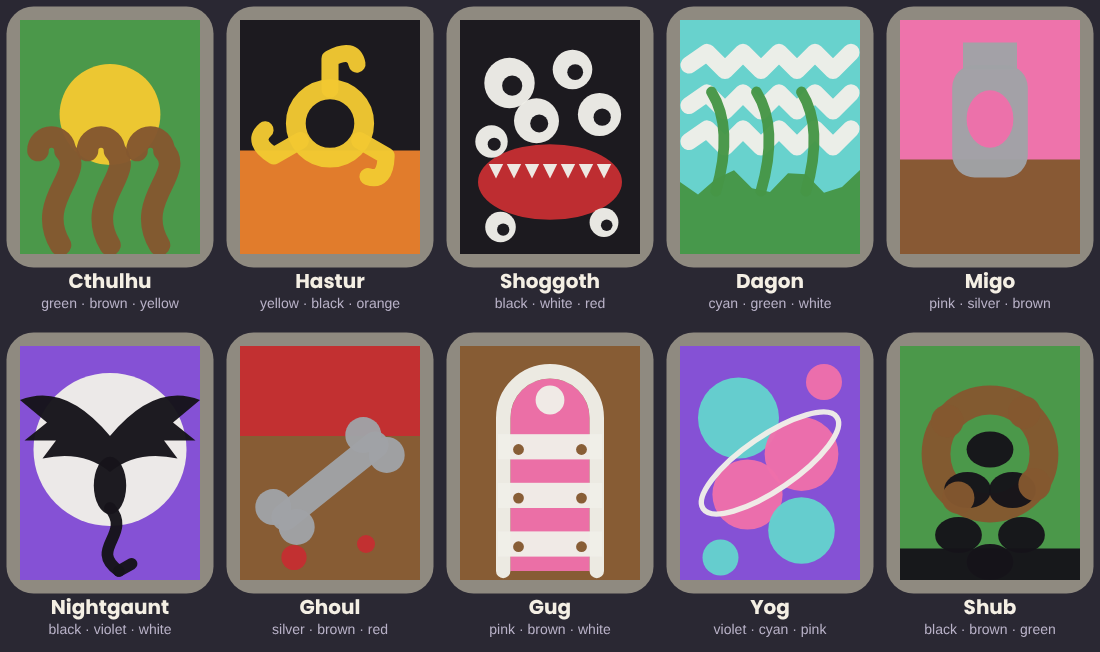
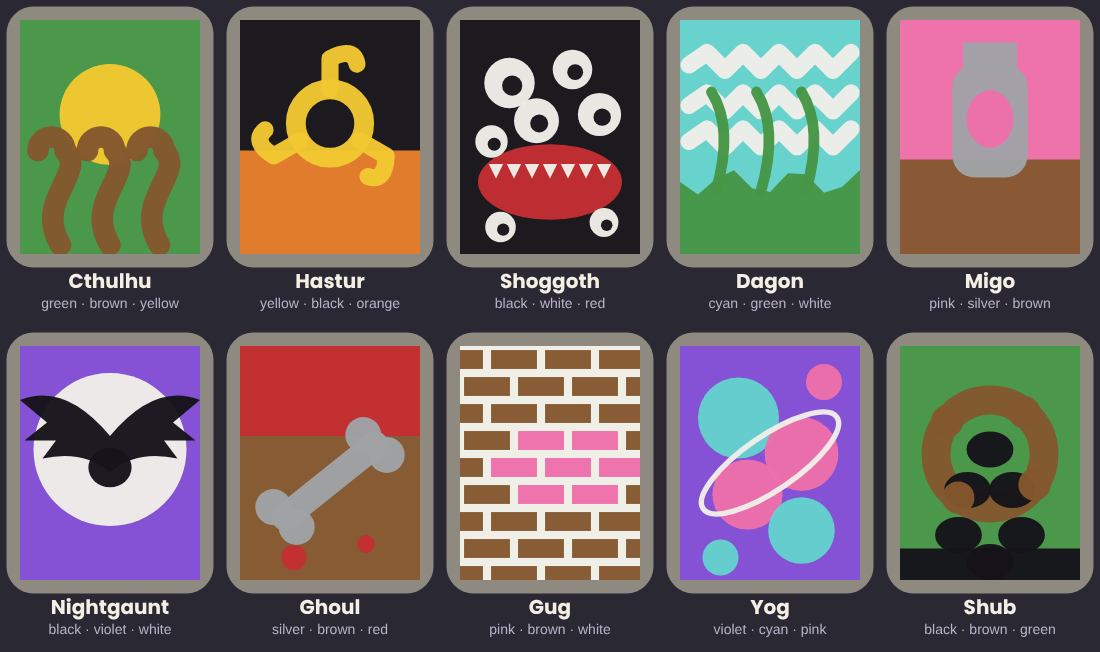
Gug's stone is a brick wall with a band of pink bricks, and the Nightgaunt's stone loses the tail under its body
Claude-Session: https://claude.ai/code/session_01MQWzxVrGaM5SWzbnobBWB8

Changed region(s): [[0.4018, 0.5215, 0.5873, 0.8896], [0.0618, 0.7055, 0.1236, 0.8896]]

diff --git a/prototype/scenes.js b/prototype/scenes.js
@@ -745,12 +745,13 @@ function horrorGlyph(c, sp) {
   else if (sp === 'Nightgaunt') { bg('violet'); f('white'); disc(0, -1.5, 8.5);   // a black winged shape across a white moon
     f('black'); c.beginPath(); c.moveTo(0, -3); c.quadraticCurveTo(-5, -9, -10, -7); c.lineTo(-7, -4.5); c.lineTo(-9.5, -2.5); c.lineTo(-6, -2.5); c.lineTo(-7.5, -0.5); c.quadraticCurveTo(-3, -1.5, 0, 1);
     c.quadraticCurveTo(3, -1.5, 7.5, -0.5); c.lineTo(6, -2.5); c.lineTo(9.5, -2.5); c.lineTo(7, -4.5); c.lineTo(10, -7); c.quadraticCurveTo(5, -9, 0, -3); c.fill();
-    oval(0, 2.5, 1.8, 3.2); st('black', 1.3); c.beginPath(); c.moveTo(0, 5); c.bezierCurveTo(2.5, 8, -2.5, 9.5, 1, 12); c.stroke(); c.beginPath(); c.moveTo(1, 12); c.lineTo(2.4, 11.2); c.stroke(); }
+    oval(0, 0.5, 2.4, 2.2); }
   else if (sp === 'Ghoul') { bg('brown'); f('red'); c.fillRect(-10, -13, 20, 10);   // a silver bone in brown earth under a red sky
     st('silver', 3); c.beginPath(); c.moveTo(-5, 6); c.lineTo(5, -2); c.stroke(); f('silver'); for (const [x, y] of [[-5, 6], [5, -2]]) { disc(x - 1.3, y - 1.1, 2); disc(x + 1.3, y + 1.1, 2); }
     f('red'); disc(-4, 10.5, 1.4); disc(4, 9, 1); }
-  else if (sp === 'Gug') { bg('brown'); f('pink'); c.beginPath(); c.moveTo(-4.4, 12); c.lineTo(-4.4, -5); c.arc(0, -5, 4.4, Math.PI, 0); c.lineTo(4.4, 12); c.closePath(); c.fill();   // the Sealed Gate: a pink door in brown rock, barred with white
-    st('white', 1.6); c.beginPath(); c.moveTo(-5.2, 12); c.lineTo(-5.2, -5); c.arc(0, -5, 5.2, Math.PI, 0); c.lineTo(5.2, 12); c.stroke(); f('white'); for (const y of [-3.2, 2.2, 7.6]) c.fillRect(-5.8, y, 11.6, 2.8); for (const y of [-1.5, 3.9, 9.3]) { f('brown'); disc(-3.5, y, 0.6); disc(3.5, y, 0.6); } f('white'); disc(0, -7, 1.6); }
+  else if (sp === 'Gug') { bg('white');   // the Sealed Gate: a wall of brown bricks in white mortar, with a band of pink bricks sealing the middle
+    for (let row = 0; row < 9; row++) { const y = -13 + row * 3, off = row % 2 ? -3 : 0;
+      for (let x = -13 + off; x < 10; x += 6) { const mid = row >= 3 && row <= 5 && x > -9 && x < 6; f(mid ? 'pink' : 'brown'); c.fillRect(x + 0.45, y + 0.45, 5.1, 2.1); } } }
   else if (sp === 'Yog') { bg('violet'); for (const [x, y, r, n] of [[-3.5, -5, 4.5, 'cyan'], [3.5, -1, 4.1, 'pink'], [-2.5, 3.5, 3.9, 'pink'], [3.5, 7.5, 3.7, 'cyan'], [-5.5, 10.5, 2, 'cyan'], [6, -9, 2, 'pink']]) { f(n); disc(x, y, r); }   // globes on violet
     st('white', 0.6); c.beginPath(); c.ellipse(0, 0, 9, 3, -0.6, 0, 7); c.stroke(); }
   else if (sp === 'Shub') { bg('green'); st('brown', 3.2); c.beginPath(); c.arc(0, -1, 6, 0, 7); c.stroke();   // a ring of brown trees with black kids round it

diff --git a/prototype/horror.js b/prototype/horror.js
@@ -203,7 +203,7 @@ const HORROR_SECRET = {
   Migo: ["Its mine is in the Rift's Outer Ring.", 'A silver jar under pink lights on brown rock, late, when the hills are dark.'],
   Nightgaunt: ["Its cliffs are in the Rift's Outer Ring.", 'Black wings across a white moon on violet, in the witching hour.'],
   Ghoul: ["Its burrows are in the Rift's Outer Ring.", 'A grey bone in brown earth under a red sky, near midnight.'],
-  Gug: ["Its gate is in the Rift's Middle Ring.", 'A pink door barred in white, set in brown rock, in the dead of night.'],
+  Gug: ["Its gate is in the Rift's Middle Ring.", 'A band of pink bricks in a brown wall, in the dead of night.'],
   Yog: ['Its gate stands at the heart of the Rift.', 'Teal and pink globes on violet, between the last bell and the first.'],
   Shub: ["Its grove is in the Rift's Outer Ring.", 'Black kids round a brown ring on green, when the forest is asleep.'] };
 function horrorSecretsHtml(S) {
